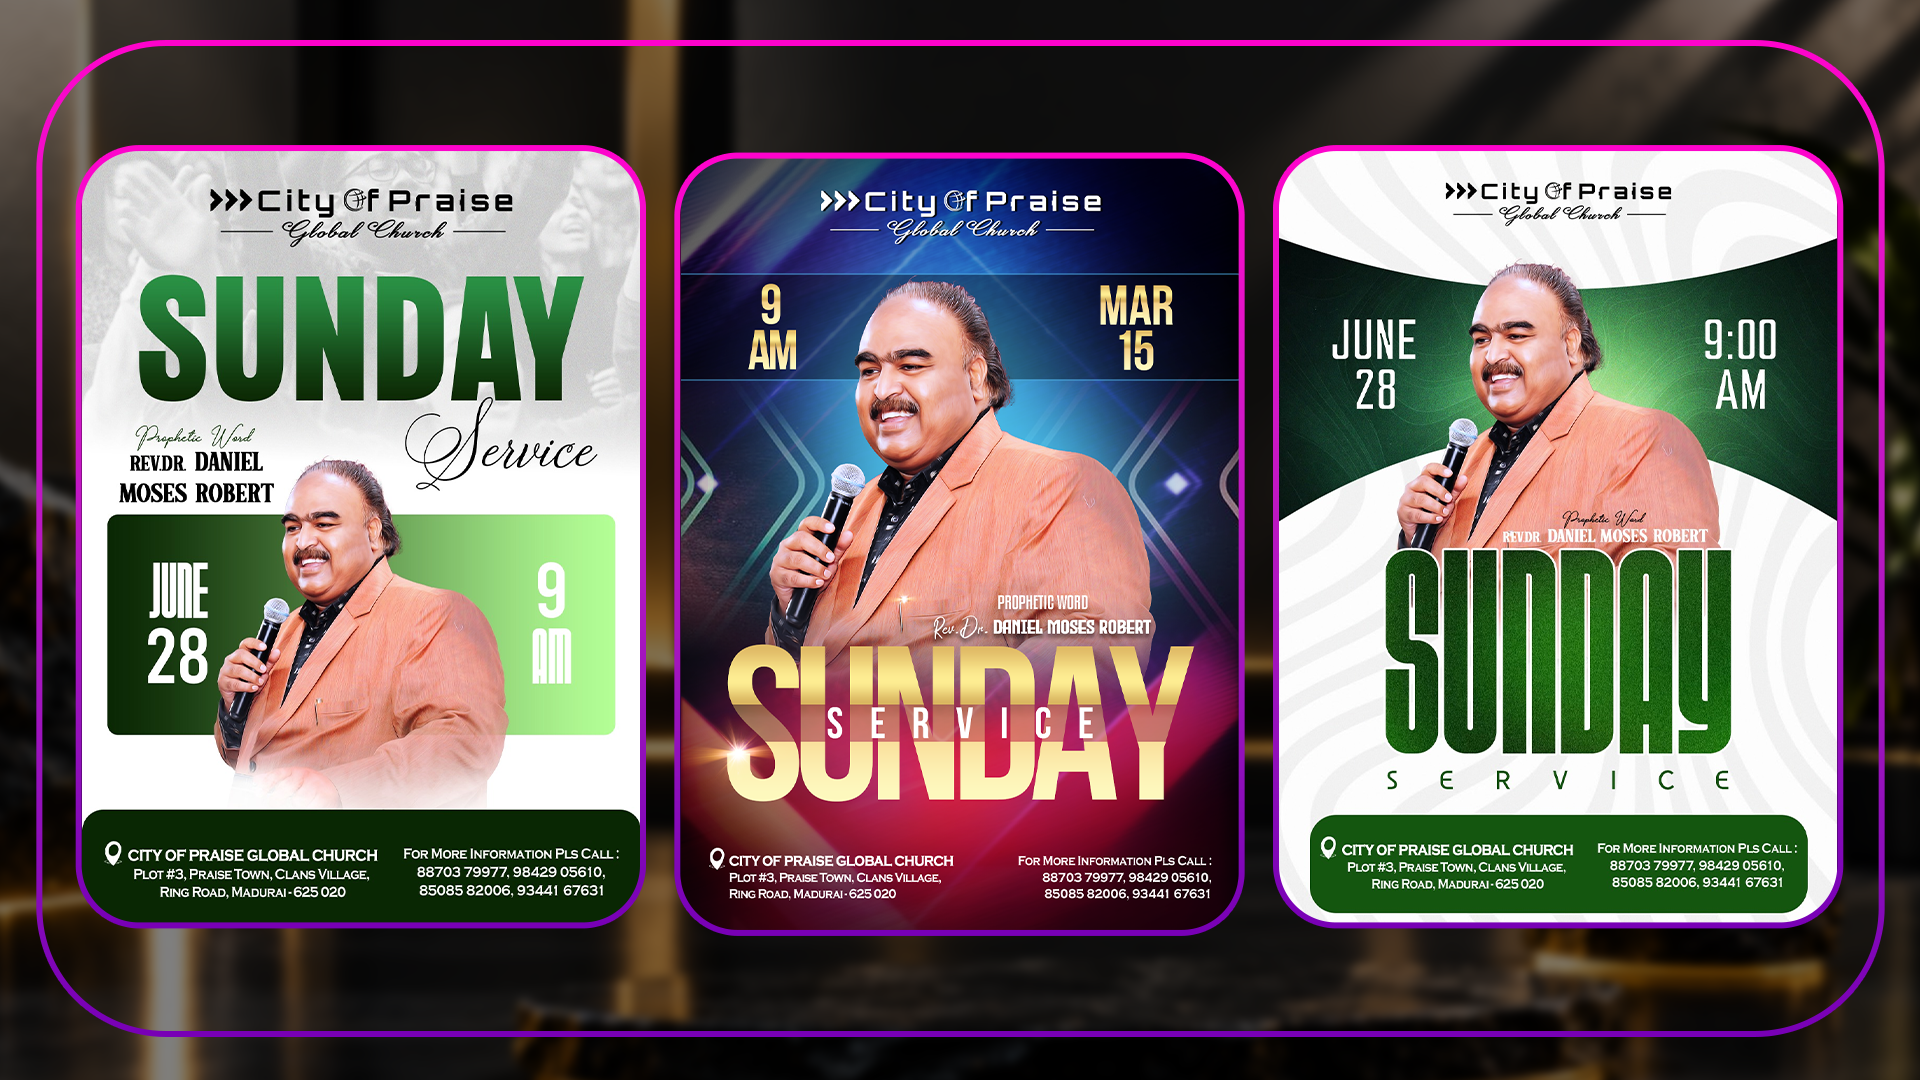
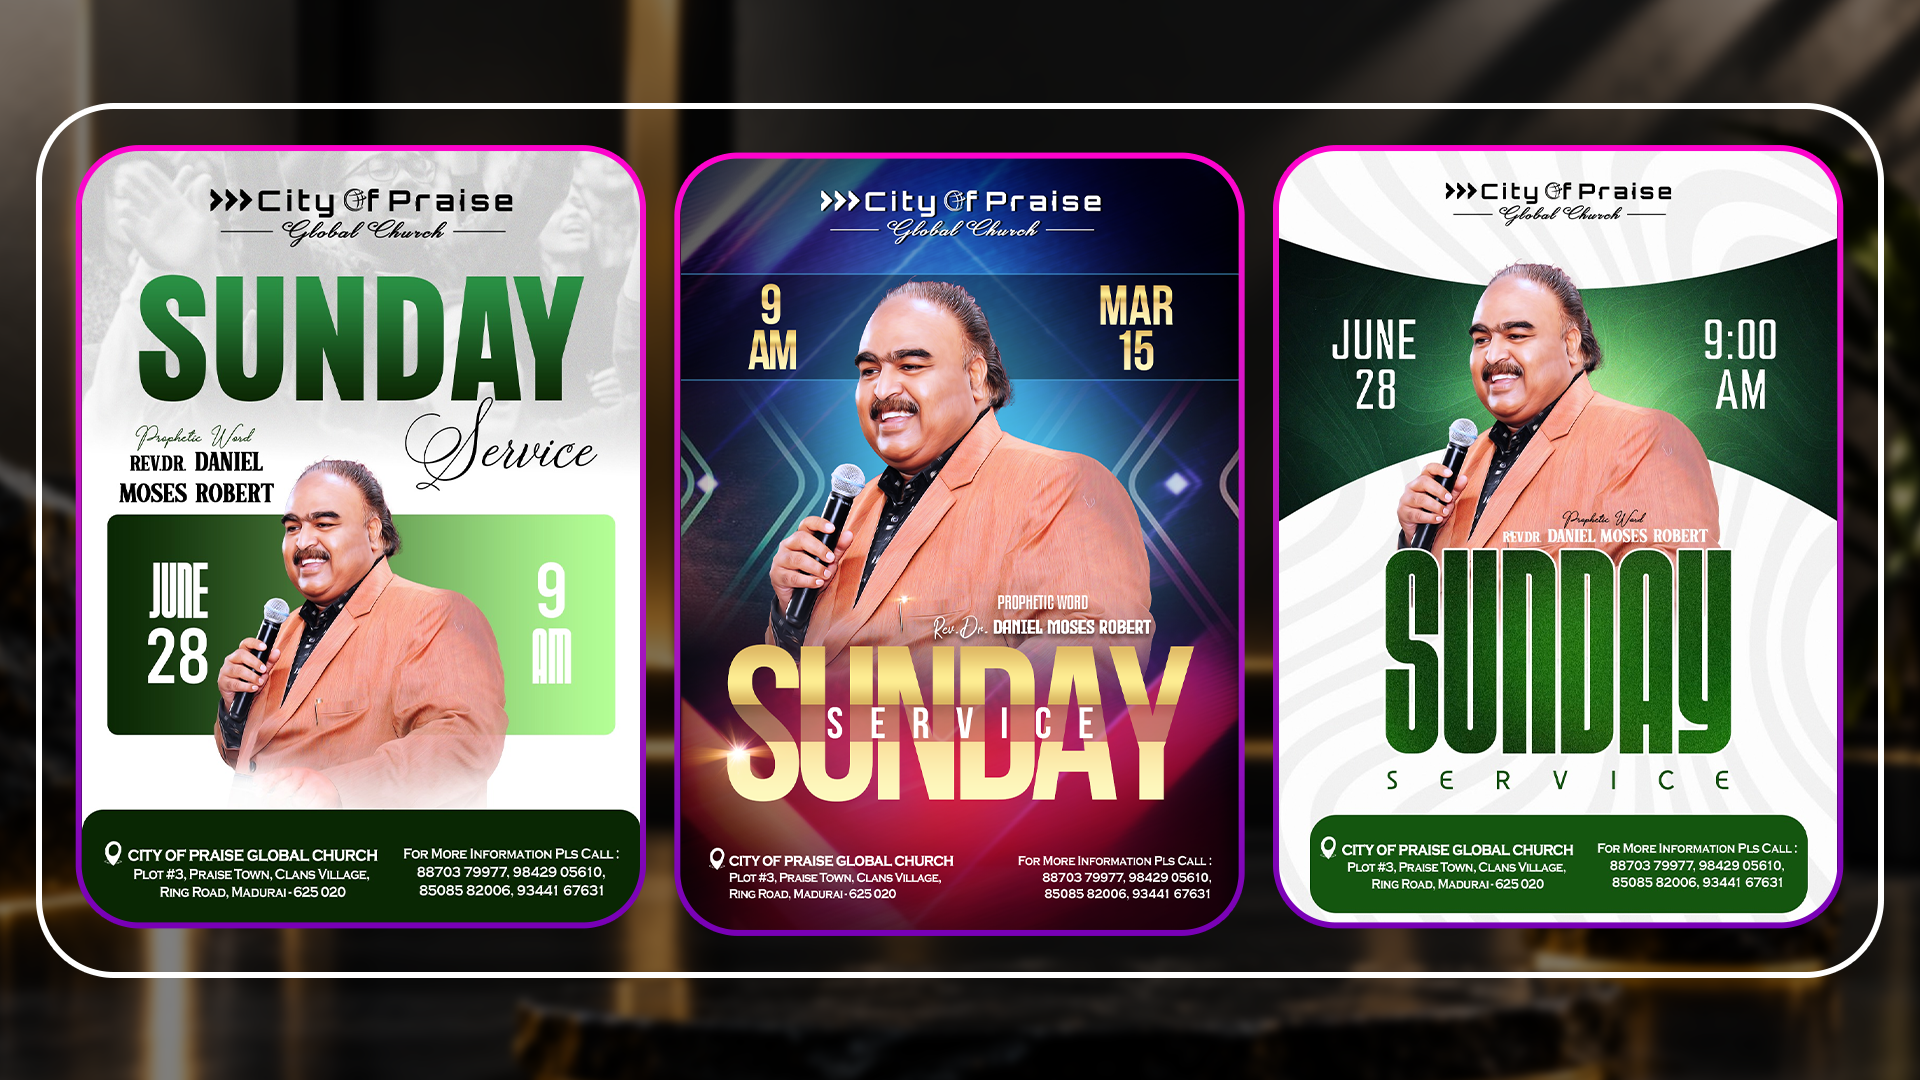
Updated portfolio

Changed region(s): [[0.0, 0.0306, 1.0, 0.8861], [0.0312, 0.8861, 0.9688, 0.9472], [0.0625, 0.9472, 0.9375, 0.9778]]

diff --git a/graphics.html b/graphics.html
@@ -273,33 +273,18 @@
           <h4 class="proj-title">Commercial 02 — Porsche 718 Cayman GT4</h4>
           <div class="proj-mockups">
             <figure class="proj-mockup" data-category="commercial" data-lightbox>
-              <img src="images\porsche poster.png" alt="Porsche 718 Cayman GT4 poster mockup one" loading="lazy">
+              <img src="images\porsche poster mockup 1.png" alt="Porsche 718 Cayman GT4 poster mockup one" loading="lazy">
               <h4 class="sr-only">Porsche 718 Cayman GT4</h4>
             </figure>
             <figure class="proj-mockup" data-category="commercial" data-lightbox>
               <!-- Swap for a second Porsche 718 mockup shot when ready -->
-              <img src="images\uplode soon.png" alt="Porsche 718 Cayman GT4 poster mockup two" loading="lazy">
+              <img src="images\porsche poster mockup 2.png" alt="Porsche 718 Cayman GT4 poster mockup two" loading="lazy">
               <h4 class="sr-only">Porsche 718 Cayman GT4</h4>
             </figure>
           </div>
           <p class="proj-desc">A premium automotive poster concept created for the Porsche 718 Cayman GT4. Designed around a bold black-and-yellow visual system with dynamic typography and performance-focused details. Created as a personal design project to explore automotive advertising and visual composition.</p>
         </div>
 
-        <div class="proj-block reveal" data-reveal style="--delay:0.2s">
-          <h4 class="proj-title">Commercial 03 — Upload Soon</h4>
-          <div class="proj-mockups">
-            <figure class="proj-mockup" data-category="commercial" data-lightbox>
-              <!-- Swap for the mockup once this project is ready -->
-              <img src="images\uplode soon.png" alt="Commercial poster mockup one" loading="lazy">
-              <h4 class="sr-only">Commercial project — upload soon</h4>
-            </figure>
-            <figure class="proj-mockup" data-category="commercial" data-lightbox>
-              <img src="images\uplode soon.png" alt="Commercial poster mockup two" loading="lazy">
-              <h4 class="sr-only">Commercial project — upload soon</h4>
-            </figure>
-          </div>
-          <p class="proj-desc">A new commercial/product poster — details and mockups coming soon.</p>
-        </div>
 
       </div>
     </section>
